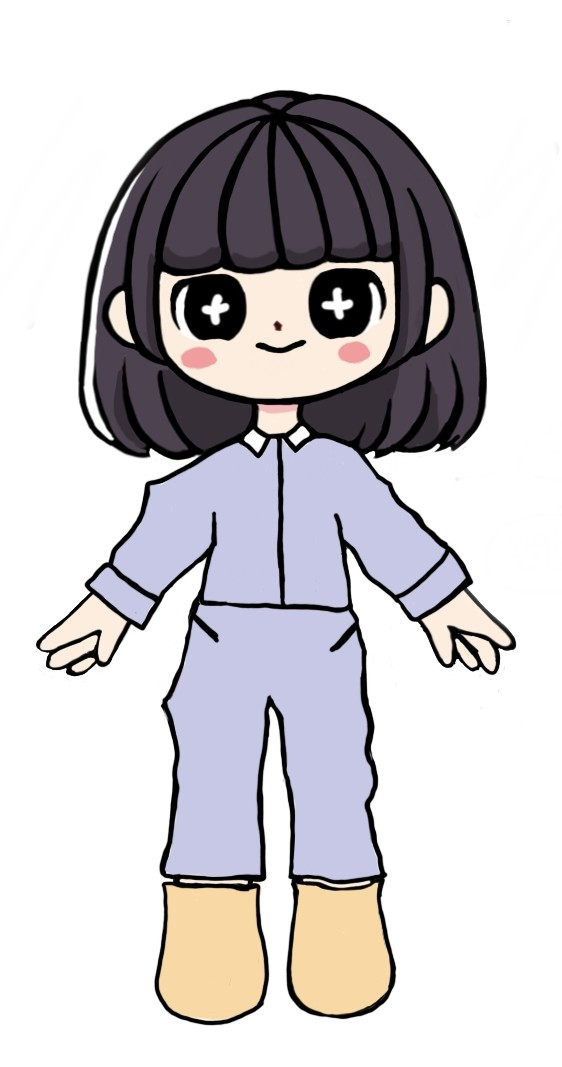
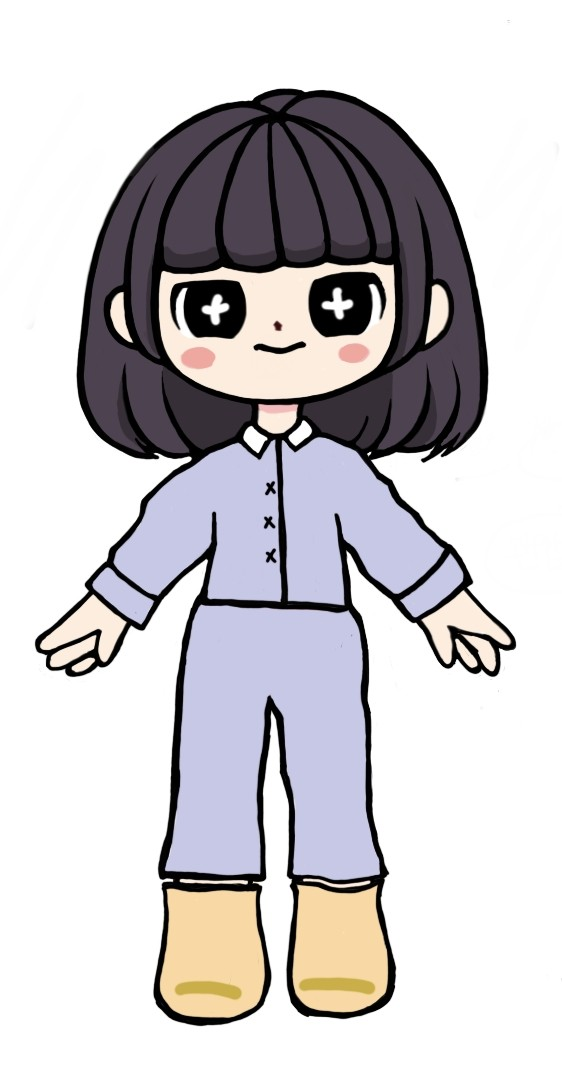
change ui

diff --git a/lib/PopupHandler.dart b/lib/PopupHandler.dart
@@ -291,6 +291,14 @@ class PopupHandler {
             'assets/person/0amarm2.jpg',
             'assets/person/0amarm1.jpg',
 
+          ],
+          '0amhead': [
+            'assets/person/slhead1.jpg',
+            'assets/person/slhead2.jpg',
+            'assets/person/slhead3.jpg',
+            'assets/person/slhead3.jpg',
+            'assets/person/slhead2.jpg',
+            'assets/person/slhead1.jpg',
           ]
 
         } {
@@ -600,7 +608,7 @@ void triggerAnimation(String bodyPart, {int delayMilliseconds = 1000}) {
         popupMessage = '좋은 꿈꾸세요!';
           if (relativeY < headHeight) {
           popupMessage = '주무실 시간이네요!';
-          triggerAnimation('0amtouch');
+          triggerAnimation('0amhead');
         } else if (relativeY >= headHeight && relativeY < legStartHeight) {
           if (relativeX < armWidth || relativeX > (imageWidth - armWidth)) {
             popupMessage = '오늘의 파자마는 보라색이예요.';

diff --git a/src/main/java/com/example/demo/controller/GoogleAuthController.java b/src/main/java/com/example/demo/controller/GoogleAuthController.java
@@ -88,18 +88,25 @@ public ResponseEntity<?> googleLoginWithAccessToken(
         String email = (String) response.get("email");
         String realname = (String) response.getOrDefault("name", "unknown");
 
-       // 추가 사용자 정보 (People API 호출)
+        // 추가 사용자 정보 (People API 호출)
         Map<String, Object> profile = googlePeopleService.fetchUserGender(accessToken);
         String gender = null;
 
         // 성별 데이터 추출
         if (profile != null && profile.containsKey("genders")) {
-            // "genders" 필드를 List<Map<String, Object>>로 처리
-            List<Map<String, Object>> genders = (List<Map<String, Object>>) profile.get("genders");
-            if (!genders.isEmpty()) {
-                // 첫 번째 성별 값을 가져옴
-                gender = (String) genders.get(0).get("value");
+            try {
+                List<Map<String, Object>> genders = (List<Map<String, Object>>) profile.get("genders");
+                if (!genders.isEmpty()) {
+                    gender = (String) genders.get(0).get("value");
+                }
+            } catch (Exception e) {
+                logger.error("성별 데이터 처리 중 오류 발생: {}", e.getMessage());
             }
+        }
+
+        // 성별 정보가 없는 경우 기본값 설정
+        if (gender == null || gender.isEmpty()) {
+            gender = "비공개"; // 기본값을 '비공개'로 설정
         }
 
         // 사용자 검색
@@ -108,14 +115,24 @@ public ResponseEntity<?> googleLoginWithAccessToken(
 
         User user;
         if (existingUser) {
-            // 기존 사용자 정보 업데이트
             user = optionalUser.get();
-            if (!user.getIs_google_user()) {
+            
+            // Google 계정 연동 여부 업데이트 (필요한 경우만)
+            if (user.getIs_google_user() == null || !user.getIs_google_user()) {
                 user.setIs_google_user(true);
             }
-            if (gender != null) {
+        
+            // 성별 정보 업데이트 (gender가 비어 있으면만)
+            if ((user.getGender() == null || user.getGender().isEmpty()) && gender != null) {
                 user.setGender(gender);
             }
+        
+            // 이름 업데이트 (realname이 비어 있으면만)
+            if ((user.getRealname() == null || user.getRealname().isEmpty()) && realname != null) {
+                user.setRealname(realname);
+            }
+        
+            // 기존 사용자 정보 업데이트
             userRepository.save(user);
             logger.info("기존 사용자를 Google 계정으로 업데이트: {}", email);
         } else {
@@ -125,7 +142,7 @@ public ResponseEntity<?> googleLoginWithAccessToken(
             user.setRealname(realname);
             user.setGender(gender);
             user.setIs_google_user(true);
-            user.setUsername(email);
+            user.setUsername(email);  // 기존 username과 충돌되지 않도록 설정
             userRepository.save(user);
             logger.info("새로운 Google 계정으로 사용자 등록: {}", email);
         }

diff --git a/src/main/java/com/example/demo/entity/User.java b/src/main/java/com/example/demo/entity/User.java
@@ -46,13 +46,13 @@ public class User {
     private boolean emailVerified = false;
 
     @Column(name = "is_google_user", nullable = false)
-    private boolean is_google_user =false; // Google 사용자 여부 추가
+    private Boolean is_google_user =false; // Google 사용자 여부 추가
 
     // 기본 생성자
     public User() {}
 
     // Google 사용자 생성자
-    public User(String username, String email, String realname, String gender, boolean is_google_user) {
+    public User(String username, String email, String realname, String gender, Boolean is_google_user) {
         this.username = username;
         this.email = email;
         this.realname = realname;
@@ -149,11 +149,11 @@ public class User {
     public void setEmailVerified(boolean emailVerified) {
         this.emailVerified = emailVerified;
     }
-    public boolean getIs_google_user() {
+    public Boolean getIs_google_user() {
         return is_google_user;
     }
 
-    public void setIs_google_user(boolean is_google_user) {
+    public void setIs_google_user(Boolean is_google_user) {
         this.is_google_user = is_google_user;
     }
      
